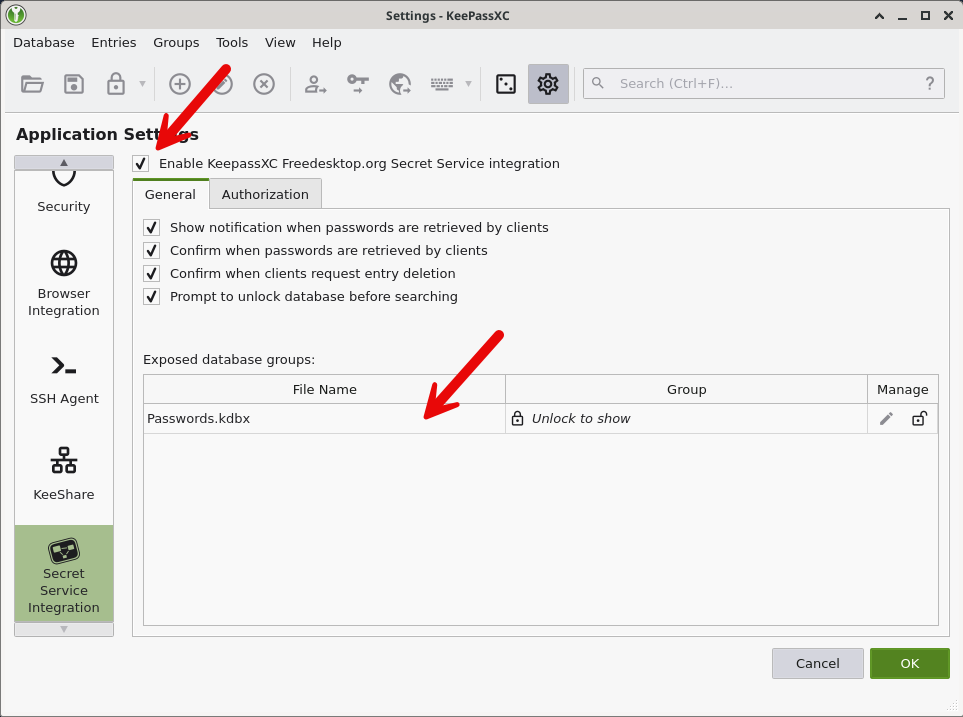
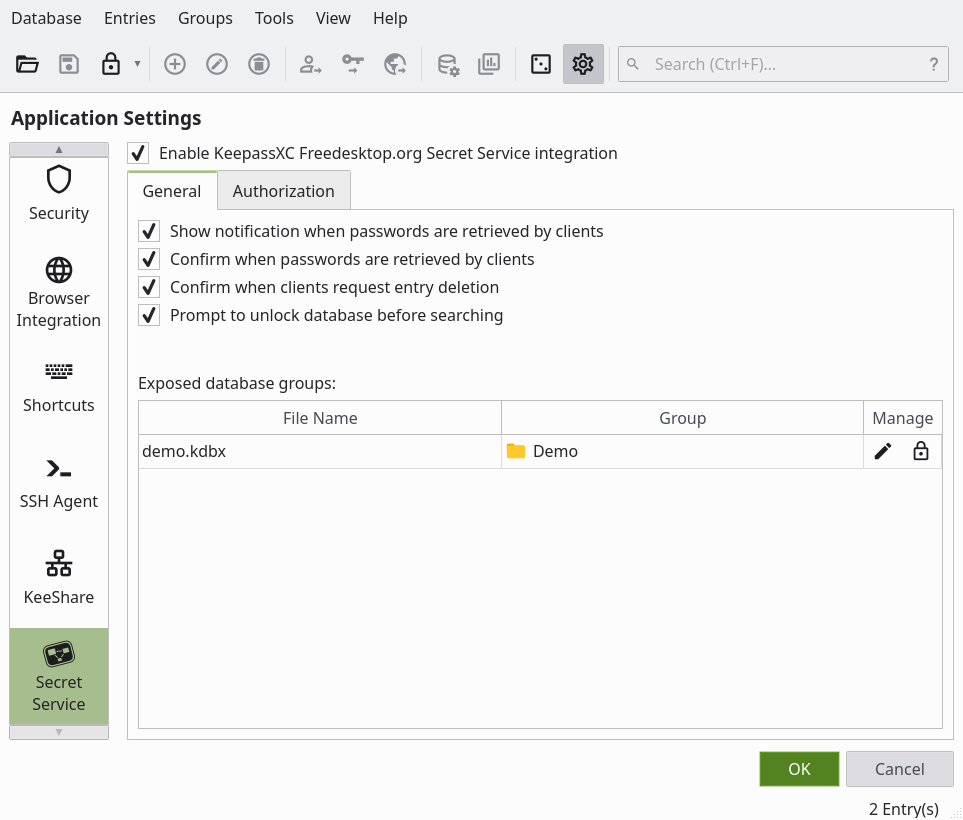
FdoSecrets: document client authorizations
User documentation:
- what the access request shows and how to answer it
- how a client is recognized, and the notes that call for a second look
- where stored decisions are managed
- what recognition does not prove: code inside a legitimate client
  inherits its authorizations, scripts sharing an interpreter look the
  same, and a process hiding its executable is never recognized

The screenshots are regenerated: the access request changed shape and
both settings pages grew a section.

The tip about secret-tool prompting on every run is removed; being
recognized across processes is what this feature adds.

The implementation README describes:
- the two storage layers and why records are one customData key each
- the two lookups a decision takes and why resolution is not cached
- what the access request reports and when it treats a client as known
- how connection state and stored decisions combine

Claude-Session: https://claude.ai/code/session_01CJmrvYAgVhPpQ8BCnK4oC4

diff --git a/src/fdosecrets/README.md b/src/fdosecrets/README.md
@@ -45,3 +45,110 @@ that the user interacts with.
 - If the database's exposed group changes, collection repopulates
 - If the database's exposed group changes to none, collection deletes itself
 - If the database's exposed group changes from none, the service recreates a collection
+
+## Client authorization
+
+Access decisions can outlive the DBus connection they were made on. They are
+stored in the database the entry belongs to, in two layers.
+
+### Identity records
+
+One record per logical client, in `Database::metadata()->customData()` under
+`FDO_SECRETS_CLIENT_<DBusClientId>`, holding a compact JSON document: a display
+name, a creation time, the matching rules, and a catch-all decision for entries
+without one of their own. A `DBusClientId` is a UUID minted when the record is
+created; entry-side decisions reference the client by it.
+
+One key per record rather than one document listing all of them: metadata
+customData merges as a whole, deciding per key by `_LAST_MODIFIED`, so a single
+document would lose updates whenever two machines both authorized something.
+The key prefix is registered in `CustomData::isProtected()` so a merge cannot
+delete records that only exist on one side.
+
+A rule is a conjunction of conditions and a record matches if any of its rules
+does. A condition constrains one process of the client's hierarchy
+(`PeerInfo::hierarchy`, index 0 being the caller) by executable path, by the
+file name of that path, or by a digest of the executable content. Anything that
+cannot be evaluated — a depth beyond the hierarchy, an unreadable executable, a
+digest algorithm this build does not know — fails the condition instead of
+being skipped, so an unusable rule never widens access.
+
+### Entry decisions
+
+Each entry carries its own decisions in its customData under
+`FDO_SECRETS_AUTH`: a JSON object mapping DBusClientId to `allow`/`deny`. They
+live on the entry so they follow it through moves, deletion and merges instead
+of leaving dangling uuids behind in the metadata, and so that a merge decides
+them together with the rest of the entry. Ids of records that no longer exist
+are ignored on read; removing a record sweeps them.
+
+Neither layer is visible over DBus: `Item::attributes()` exposes entry
+attributes, not customData.
+
+## Matching
+
+Answering "may this client read this entry" is two lookups, not a scan:
+
+1. **Resolution** maps the client to at most one record, by evaluating the
+   records of that database against the client's process hierarchy. Records
+   that can match the same client are a configuration smell rather than an
+   error, so resolution is deterministic: a record whose catch-all denies wins,
+   otherwise the one created first. The settings page warns about the overlap.
+2. **Decision** looks the resolved DBusClientId up in the entry's own
+   decisions, falling back to the record's catch-all.
+
+Resolution deliberately has no cache. Records are looked up by a customData key
+whose `_LAST_MODIFIED` timestamp has second resolution, which is not enough to
+notice that a record changed within the same second — and the failure mode of a
+stale cache here is honoring an authorization the user just revoked.
+
+A record whose non-digest conditions all hold while a digest condition fails
+identifies the client with changed executable content. That is not a match: the
+client is asked again, with the changed processes marked, and re-authorizing
+updates the digests of the existing record instead of adding a second one.
+
+### Hashing
+
+Digests are taken from `/proc/<pid>/exe`, which is the original inode: content
+is read even when the path has since been replaced or deleted. Reading fails
+for a process that is gone, owned by another user, or has `PR_SET_DUMPABLE`
+cleared, and a failure fails the condition.
+
+Hashing is lazy — conditions that do not need it are evaluated first, so a
+client only pays for it when everything cheaper about a record already matched
+— and results are cached per connection, including failures: a live process
+cannot change its `/proc/<pid>/exe`, and a reused pid must not be able to
+produce a different digest than the process first seen at that depth.
+
+## The access request
+
+`AccessControlDialog` asks about the entries without a decision and reports
+what to do with each, without storing anything itself: `UnlockPrompt` applies
+the result. An entry left unchecked is reported as undecided whatever the
+verdict, so it is refused now and asked about again. A decision about future
+entries is the record's catch-all, and is only ever reported together with
+"store it".
+
+One dialog asks about one database. Records, rules and the catch-all are
+per database, and so is whether the client is known, so a request spanning
+several databases is asked one database at a time, each dialog naming its
+database.
+
+The dialog shows a client as known when the database resolves it to a
+record, including a record with a changed digest. Then the decisions join
+that record and the dialog only displays what the identifying rule
+compares. Otherwise remembering creates a record anchored on the hierarchy
+depths selected in the dialog.
+
+## Runtime state versus stored decisions
+
+`DBusClient` holds what the current connection decided, nothing more: the
+decisions that apply to this request only, plus the ones just granted for
+entries the client itself created. Stored decisions are never copied into it,
+which is what keeps a catch-all from leaking from the database it was granted
+in to another one.
+
+`Service::authDecision()` is the only place the two are combined. Denials win
+within a layer, and a decision limited to this request wins over a stored one,
+so answering a prompt with Remember unchecked cannot be overruled by what the
+database holds.
